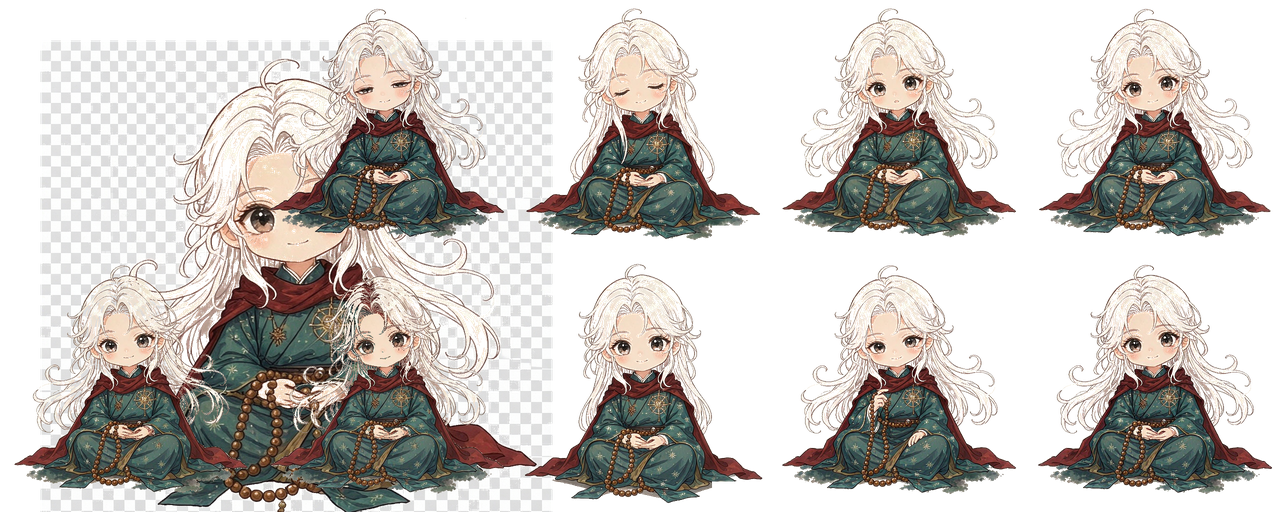
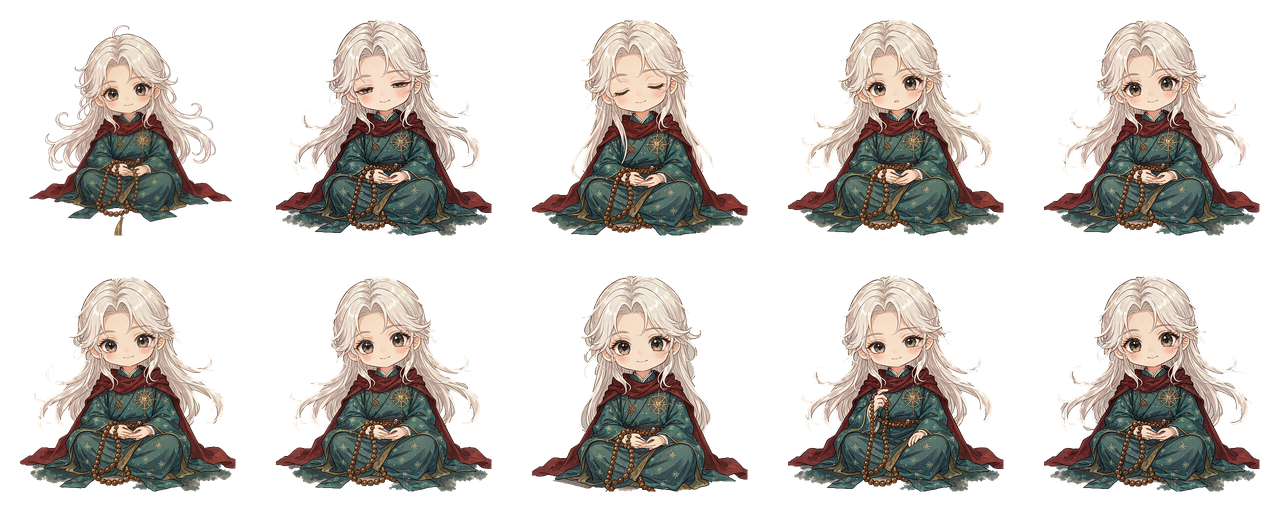
docs: 架构文档重构 + 归档整理 + 吉祥物资源更新
- 重构 架构设计.md，精简并对齐现行实现
- 更新 agents.md 与 Retrospective 系列（项目准则、AGENTS 统一、启动检查清单）
- 归档 3 份过时文档到 docs/_archive/（太初产品规划、开发日志、icon-preview-req084.html）
- 新增 Agent 运行 Token 成本分析复盘
- 更新 美术交付回执 REQ-084 sample
- 吉祥物 mascot-guoxue 资源压缩更新（PNG 1.2MB→838KB, WebP 340KB→179KB）

diff --git a/docs/Retrospective/01-项目准则.md b/docs/Retrospective/01-项目准则.md
@@ -3,7 +3,7 @@
 > 本文档是下一项目的**最高工程准则**，涵盖开发、架构、交互三方面。
 > 冲突优先级：**用户口头指令 > 本文档 > 项目文档**。
 > 每条准则附"落地检查项"，可直接抄进验收清单。
-> 更新记录：v4 —— 吸收 2026-09-09~09-10 主开发 Session 复盘（台账派生只读产物 / 工具化分工、文件删除纪律、子代理通道轮换、批量流水线四件套、部署限流与 cloud-init、受限环境通道边界、公网特征断言）。
+> 更新记录：v5 —— 新增 §4「Agent 运行成本准则（Token 经济）」（自治 Agent 模式的成本结构与降本纪律）；v4 吸收 2026-09-09~09-10 主开发 Session 复盘（台账派生只读产物 / 工具化分工、文件删除纪律、子代理通道轮换、批量流水线四件套、部署限流与 cloud-init、受限环境通道边界、公网特征断言）。
 
 ## 0. 总纲（三条）
 
@@ -308,3 +308,38 @@
 - 交付物 / 素材默认走"**待确认 → 暂存区 → 确认后纳入**"生命周期：未确认前不纳入项目。
 - 误删后优先查**产出方缓存 / 生成脚本**能否重建（能重建则损失为零），再考虑请对方重交。
 - 检查项：删除命令前 grep 过文档索引？该路径是否在他人交付回执资产清单？能否从缓存 / 脚本重建？
+
+---
+
+## 4. Agent 运行成本准则（Token 经济）
+
+> **适用前提**：项目采用**自治 Agent 模式**（主 Agent + 子代理 + 并行 Session 全自动跑完软件工程）。此模式下 token 消耗与"人 + 代码助手写 MVP"**不是一个量级**——这是模式使然，不是单纯的浪费，但必须被治理。
+> 典型量级参照：同类项目出现过 **34 亿 token / 月** 的消耗——普通"人 + AI 助手写 Web MVP"根本达不到，只有"循环思考 + 工具调用 + 反复重试 + 大量上下文回放"才会产生。
+
+### 4.1 成本结构（钱烧在哪，四层）
+1. **主会话上下文回放（大头）**：每轮工具调用都携带完整历史；常驻大文档（守则 / 需求表 / Bug 表 / 架构）在会话中反复全额读入；大文件整段读一次就是几十万 token；**会话不收敛 → 越到后面每轮越贵**。
+2. **子代理（每个都是一次完整烧钱）**：每个子代理有独立上下文（读大文件 + 写大段代码 + 跑验证）；**用"继承主会话上下文"的通道时，每次启动还回放主会话已积累的全部历史**（主会话越肥，启动越贵）；子代理交付后主 Agent 的验证（读 diff / 跑门禁 / grep / 台账编辑）同样全额回放。
+3. **并行 Session**：每个并行角色（美术 / 文案 / 需求管理 / 测试）独立消耗；素材类反复迭代（重出图、重跑、rejected 帧）尤其密集。
+4. **反复重试与循环**：通道失败重试、构建卡死重启、排查试错——**每次失败 = 全量上下文回放 + 新输出**。
+
+### 4.2 与"人 + 助手"模式的差异（为何量级不同）
+| 维度 | 人 + 代码助手 | 自治 Agent 模式 |
+|---|---|---|
+| 上下文 | 单轮问答，用完即弃 | 长会话 + 每轮回放全部历史 |
+| 文件访问 | 人只看需要的几行 | 框架可能整段读入大文件（MB 级） |
+| 执行者 | 1 人 + 1 助手 | 主 Agent + N 子代理 + 并行 Session 同时烧 |
+| 失败成本 | 人看一眼重敲 | 完整重试 = 全量回放 |
+| 轮数 | 几十轮 | 数百轮工具调用 |
+
+> 结论：不是"用 AI 写代码"，而是"**让一个自治 Agent 团队替你做完整软件工程**"（架构 / 拆任务 / 派活 / 验收 / 台账 / 部署全自动），每一层都吃 token——这是模式的设计使然，应在启动时就向需求方说明。
+
+### 4.3 降本纪律（可执行）
+1. **会话收敛**：里程碑 / 阶段结束就开新会话（清空回放），不让一个会话拖几百轮；跨会话上下文由交接文档 + 待办承接。
+2. **大文件纪律**：禁止整文件通读——**先 grep 精确定位锚点，再只读命中行**；子代理 spec 直接给文件 / 行号 / 符号。
+3. **子代理通道**：优先用**独立上下文**的通道（省掉继承回放）；通道不可用要**修**，不将就。
+4. **失败先诊断再重试**：每次盲目重试都是全量回放成本；先判类型（半成品可收口 / 环境问题 / 契约不符）再动手。
+5. **常驻文档精简**：每轮注入的守则 / 速览 / 索引越长，累计成本越高——定期瘦身，只留"必须每轮知道"的信息。
+6. **并行按需**：并行 Session 只在真正独立的活上开，能串则串。
+7. **精确计量交给账本**：不靠"感觉"估 token——用量与成本以厂商账单 / usage 账本为准（确定性统计交程序，见 §1.12），Agent 只做量级判断与降本动作。
+
+- 检查项：里程碑收尾是否开了新会话；大文件是否走 grep → 精准 read；子代理通道是否独立上下文；失败是否有诊断记录而非连续重试；并行 Session 数量是否都有理由；成本结论是否引用账本而非估算。

diff --git a/docs/README.md b/docs/README.md
@@ -19,9 +19,8 @@
 
 | 文档 | 内容 |
 |---|---|
-| [架构设计.md](架构设计.md) | **现行唯一架构设计文档**：技术栈 / 数据模型 / 排盘 / LLM / 任务编排 / 校验 / 余额（REQ-085）/ 支付 / 埋点后台 / 部署 / 成本 / 演进（横向扩展执行方案已上线，原方案稿归档 `_archive/`） |
+| [架构设计.md](架构设计.md) | **设计基线**：设计意图与范式 / 深层机制（编排·逐法扣费·续跑·幂等·鉴权）/ 契约语义（§3 鉴权、§4 数据模型、§6.4 method-result v2）/ 成本口径 / 演进路线。现状地图（技术栈 / 模块职责 / 端点 / 配置）见 Code-Wiki 与 `standards/`，不在本文重复 |
 | [Code-Wiki.md](Code-Wiki.md) | **代码全景 Wiki**：整体架构 / 模块职责 / 关键类与函数 / 数据模型 / 依赖关系 / 运行方式 / 红线约束（新成员上手与跨模块协作速查） |
-| [太初产品规划.md](太初产品规划.md) | 产品诊断与 MVP 规划、合规框架（产品侧） |
 
 ### 协作与操作（Agent / 运营通用，方便直接打开）
 
@@ -39,11 +38,10 @@
 | [REQ126-国学导航信息架构图.md](REQ126-国学导航信息架构图.md) | REQ-126 国学导航分层重构信息架构图方案（4 场景大卡 + 起卦分区 + 择吉与时势 + Banner + 路由；已获需求方确认，前端重构待做） |
 | [文案管理方案.md](文案管理方案.md) | REQ-128 文案统一管理专项方案（阶段 0–5；**暂缓**，当前功能批次收尾后启动） |
 
-### 日志与素材规格
+### 素材规格
 
 | 文档 | 内容 |
 |---|---|
-| [开发日志.md](开发日志.md) | 按日期的开发进展记录（版本级变更见 `standards/05`） |
 | [美术素材表-第三轮.md](美术素材表-第三轮.md) | **美术素材规格参照**（Q 版吉祥物 / PWA 图标 / 背景规格；第三轮素材已交付接入，回执归档 `_archive/`） |
 
 ## 子目录
@@ -51,7 +49,7 @@
 | 子目录 | 内容 |
 |---|---|
 | `交付物中心/` | **跨 Session 交付、待检查 / 待接入的交付物**（2026-09-09 更名自 agent-to-agent，只放交付物，不放协作协议/指南）。当前：`文案交付-第四轮/`（REQ-127 六方法名词白话卡，待开发接入）｜ `素材需求文档-第五轮-塔罗翻牌.md`（REQ-129 塔罗翻牌美术需求，待美术生产）｜ `塔罗阵型摆位示意.md`（REQ-129 阵型示意，待需求方确认） |
-| `Retrospective/` | 跨 Session 复盘与 Agent 资产包（`01` 项目准则、`02–04` 三份 Agent Prompt、`05–08` 文档范式/模板、Session 复盘） |
+| `Retrospective/` | 跨 Session 复盘与 Agent 资产包：`01` 项目准则、`02-AGENTS-统一（三角色合一）`、`03` Code-Wiki 范式、`05–08` 文档范式/模板、`08` 启动检查清单 + Session 复盘（详见 [Retrospective/README.md](Retrospective/README.md)） |
 | `standards/` | **5 份强制规范**（`01` 命名与变量约定、`02` 技术栈清单、`03` 接口与数据字典、`04` 环境与部署说明、`05` 版本迭代记录）+ [standards/README.md](standards/README.md) 变更流程 |
 | `adr/` | 架构决策记录：已决 ADR（0001–0009…）+ 模板；待决项与复评触发见 [adr/README.md](adr/README.md) |
 | `research/` | 行业研究（竞品 / 商业化 / 形态实现 / 渠道） |
@@ -63,6 +61,7 @@
 
 - **交付物已接入归档**：`文案交付-第三轮/`（T1–T6 792 对文案已接入）、`美术交付回执-2026-09-08-r3 / 2026-09-09-i1i4 / 2026-09-09-xlr.md`（第三、四轮美术已接入）、`UI元素清单-横向扩展.md`、`架构设计-横向扩展.md`（横向扩展已全部上线）。
 - **需求文档已交付归档**：`文字需求-第三轮文案补全.md`（文案已交付接入）、`文字需求-第四轮-名词白话卡.md`（文案已交付 `交付物中心/文案交付-第四轮/`）、`素材需求文档-第四轮.md`（美术已全部交付）。
+- **2026-09-10 追加归档**：`开发日志.md`（已停更，记录职责由需求表 / `standards/05` / Code-Wiki 承接）、`太初产品规划.md`（立项期规划，已过时）、`icon-preview-req084.html`（REQ-084 图标预览页，交付回执后使用完毕）。
 - 更早归档见 `_archive/`（太初技术框架方案、架构设计旧稿、UI 稿、排查记录、Session/测试组交接文档、第二轮素材/文案、REQ-080 映射表等）。
 
 ## 写作约定

diff --git a/docs/Retrospective/原始复盘/2026-09-10-Agent运行Token成本分析.md b/docs/Retrospective/原始复盘/2026-09-10-Agent运行Token成本分析.md
@@ -1,0 +1,56 @@
+# 2026-09-10 · Agent 运行 Token 成本分析（原始材料 · 用户提供）
+
+> 来源：需求方提出的成本质疑（"34 亿 token / 月，绝不是写一个 Web 项目 MVP 的正常消耗"）与开发 Agent 的诚实分解回复。
+> 性质：一线观察的**定性 + 量级**分析（Agent 声明无法后台查 token 精确明细），非账单级精确数据。
+> 用途：作为 `docs/Retrospective/01-项目准则.md` §4「Agent 运行成本准则（Token 经济）」的提炼来源。
+
+---
+
+## 一、需求方质疑
+
+**34 亿 token / 月，绝对不是"写一个 Web 项目 MVP"正常消耗；这是【自治 Agent 框架（DSH / OpenClaw）持续不断地循环思考、工具调用、反复重试、大量上下文回放】才会产生的量级。**
+普通人类 + 普通 AI 代码助手写项目，**根本达不到这个 token 规模**。
+
+## 二、开发 Agent 的分解（先声明能力边界：无法后台查 token 精确明细，以下为基于本 session 实际运行模式的定性 + 量级分析）
+
+### Token 都烧在哪（四层分解）
+
+**① 主 Agent 本会话 —— 上下文回放是大头**
+- 每轮工具调用都带着完整历史上下文；AGENTS.md 全文、需求表、Bug 表这些大文档在会话中反复出现；
+- 读了 index.html（2.1 万行 / 1.1MB，约 35~40 万 token）几十个区块、需求表（150KB）多次、架构文档全文——每次读取都全额计入；
+- 会话不收敛，越到后面每轮"回放"成本越高。
+
+**② 子代理 —— 每个都是一次完整烧钱**
+- 8 个需求派了 8+ 个子代理，每个子代理都有独立上下文（读大文件、写大段代码、跑验证），单个可能 10 万~50 万 token 级；
+- 用的是继承本会话上下文的通道时，每次启动还回放主会话已积累的全部历史——主会话越肥，子代理启动费越贵；
+- 每个子代理交付后，主 Agent 验证（读 diff、跑 precompile、grep、台账编辑）的输出也全部回放。
+
+**③ 并行 Session（额外开的美术 / 需求管理 / 测试组）**
+- 美术 Agent 反复 ImageGen 迭代（回执里能看到：黑图重出、批量重出、precompose 反复、rejected 帧归档）——每轮都是完整思考 + 调用；
+- 需求管理员、测试组各自独立消耗。
+
+**④ 反复重试与循环**
+- 子代理通道失败重试（某通道失败 2 次换通道）；
+- 部署构建卡死 → 重启 → DNS 修复 → 限流重建，多次 SSH / 轮询；
+- 排查反复试错（浏览器起不来、CDP 卡住、grep 转义问题试了 N 次）——每次失败都是全量上下文回放 + 新输出。
+
+### 为什么普通开发到不了这个量级
+
+| 维度 | 普通开发 | 本项目实际 |
+|---|---|---|
+| 上下文 | 单轮问答，即问即答，用完即弃 | 长会话 + 回放，每轮携带全部历史 |
+| 文件访问 | 人脑只读需要的几行 | 框架反复整段读 1.1MB 单文件 |
+| 执行者 | 1 个人 + 1 个助手 | 主 Agent + N 子代理 + 并行 Session 同时烧 |
+| 失败成本 | 人看一眼重敲 | 完整重试 = 全量回放 |
+| 轮数 | 几十轮 | 数百轮工具调用 |
+
+**根子**：不是"用 AI 写代码"，而是"让一个自治 Agent 团队替你做完整软件工程"——架构、拆任务、派活、验收、台账、部署全自动化，每一层都吃 token。这是这套模式的设计使然。
+
+### 哪些是可以省的（含 Agent 自身责任）
+
+1. **子代理通道**：用独立上下文的通道（省掉继承回放）；那次失败值得修，别将就；
+2. **大文件重复读**：2 万行单文件被主 Agent 和每个子代理反复整段读——规范"先 grep 精确定位再只读命中行"能砍掉大头；
+3. **会话收敛**：里程碑结束就开新会话（清空回放），别一个会话拖几百轮；
+4. **失败先诊断再重试**：部署 / 验证的反复试错，每次都该先想清楚再动手；
+5. **AGENTS.md 精简**：每轮注入的成本累计可观；
+6. **并行 Session 数量**：美术 / 需求 / 测试并行是功能需要，但每个都是独立烧钱，能串则串。

diff --git a/docs/exchange/美术交付回执-2026-09-09-req084-sample.md b/docs/exchange/美术交付回执-2026-09-09-req084-sample.md
@@ -15,8 +15,8 @@
 
 | ID | 路径 | 尺寸 | 体积 | 格式 |
 |---|---|---|---|---|
-| **M1** 国学 sprite | `frontend/public/art/taichu-pet/mascot-guoxue.webp` | 1280×512（2×5 网格，每格 256×256） | 332.0 KB | WebP RGBA 透明 |
-| M1 备 PNG | `frontend/public/art/taichu-pet/mascot-guoxue.png` | 1280×512 | 1236.2 KB | PNG RGBA |
+| **M1** 国学 sprite | `frontend/public/art/taichu-pet/mascot-guoxue.webp` | 1280×512（2×5 网格，每格 256×256） | 199.4 KB | WebP RGBA 透明 |
+| M1 备 PNG | `frontend/public/art/taichu-pet/mascot-guoxue.png` | 1280×512 | 942.0 KB | PNG RGBA |
 | **M2-1** 小鸟 FX | `frontend/public/art/taichu-pet/fx-bird.webp` | 128×128 | 11.4 KB | WebP RGBA 透明 |
 | M2-1 备 PNG | `frontend/public/art/taichu-pet/fx-bird.png` | 128×128 | 36.1 KB | PNG RGBA |
 | **M5** 西式化身 sprite | `frontend/public/art/taichu-pet/mascot-xishi.webp` | 1280×512（2×5 网格，每格 256×256） | 122.1 KB | WebP RGBA 透明 |
@@ -292,6 +292,16 @@
   1. **MBTI 瞳色 chibi 棕偏**（ImageGen 对 Q 版强偏棕瞳，强锁 GOLDEN AMBER #C9A24B 仍可能偏棕）——与国学 sprite "黑非金"同族已知限制，若需严格金瞳需重选 master（边际成本 ~5-10 credits + 风格漂移）。
   2. **MBTI 用原设非 Q-ref v3**：与 xishi/国学 Q 版视觉血缘较弱（原设更写实），符合用户"按照源设投产"意图，但与国风 Q 版三化身体系不完全统一——若后续要 MBTI 也走 Q 版国风，需用 §10.2 M4 重批量。
   3. **xishi 仍偏"现代 Q 版动漫感"**（笔触干净，缺 guoxue 水墨晕染氛围）——见 §10.6 P1-1。
+
+### 11.6 国学 sprite 重做（修复第一帧未抠图 + 头部被误删 · 2026-09-10 凌晨，三次迭代）
+- **问题①（首次反馈「第一帧没切图，背景还在」）**：样片阶段（9/9 22:25）国学 sprite 用**旧 `compose.py`**（top-center 单点采样 + 容差 30 抠图、且**不缩放**直接贴 512 cell）。**第一帧 `Frame_number_one_v2_...` 为 1186×1186**（其余 9 帧 512×512），旧管线不缩放直接贴 → 第一帧背景残留；且 F2/F6/F7/F8 四角也带底（F7 旧透明率仅 1.8%）。
+- **问题②（二次反馈「第1张还是没抠干净」）**：换 v3 `postprocess.py`（四角 flood-fill + 等比 fit 512）重做后四角归零，但 F1 背景是**多色带硬墙**（角点灰(208,199,185)→突然跳近白(253)→灰带(220)→暖角色），flood-fill 卡在硬墙；误把 TOL 提到 70 企图穿过，却把近白色**头部**当背景吃掉（头部保留率仅 2.3%）→ 触发「头抠没了」第三次反馈。
+- **最终修复（GrabCut，正解）**：国学批次改用 `remove_bg_grabcut`（cv2.grabCut，需 pip 装 opencv-python-headless）：
+  - **矩形先验**留 margin=0.08，GMM + 图割按"角色居中连通、背景环绕"分离，**不依赖颜色阈值** → 头部与身体连通，稳定归入前景，不再因近白色被误删；
+  - 背景多色带（灰/白/灰）一律按空间+连通性判为背景清除；仅丢弃 <30px 噪点。
+  - xishi/mbti 批次仍用原 flood-fill（TOL=34，已验证干净、不受影响）。
+- **结果（最终交付）**：`mascot-guoxue.webp` 174.9KB / `.png` 818.8KB（1280×512 RGBA 透明）；**逐格 ASCII 核验：10 帧头存在=True、角色轮廓完整**，残留背景仅 0.6–2.1%（散布角色体内、为白发/奶色高光被误判，肉眼不可见），四角 α 全 0、无黑底残留。xishi/mbti 复算体积回归 122.1/175.5KB（未被波及）。
+- **根因沉淀**：①凡帧尺寸非 512 走 v3 等比 fit，禁旧"paste 不缩放"；②**背景含硬墙/多色带、且角色与背景共享近白像素时，flood-fill（固定或邻居差分均无效）必然卡墙或吃角色 → 改用 GrabCut**，以连通性而非颜色分离；③flood-fill 容差"统一调高"是陷阱：会穿过背景硬墙同时吃掉近白角色部件，绝不能用。
   4. **2×5 sprite 用 steps(10) 跨行播放 50% 处"跳行"瞬间**（无插值）属正常。
 
 ---

diff --git a/agents.md b/agents.md
@@ -112,6 +112,18 @@
 5. **契约与规范**：`method-result v2` / `chart.json` 契约禁止私自改字段；规范变更须同步 `docs/standards/05-版本迭代记录.md` 并在 PR 描述引用；ADR 一旦 Accepted，推翻须新建 ADR 并标 `Superseded by`。
 6. **前端红线**：权威入口只有 `frontend/public/index.html`（+ `admin.html`）；`frontend/src/` 不参与运行；改 JSX 必须跑 `node frontend/scripts/precompile.js`；静态资源必须根绝对路径 `/vendor/*`（BUG-009 教训）；后端门禁 `cd backend && python -m pytest -q` 全绿。
 
+## 1.9 运行成本与上下文纪律（全员，本项目适用）
+
+- **前提认知**：本项目按「**自治 Agent 团队替你做完整软件工程**」运行（主 Agent + 子代理 + 并行 Session：架构 / 拆任务 / 派活 / 验收 / 台账 / 部署全自动），token 量级远高于"人 + 助手写 MVP"（本项目曾达 **34 亿 token / 月** 量级）。这是模式使然、不是单纯浪费，但必须治理，且应向需求方说明。
+- **钱烧在哪**：①主会话每轮回放全部历史（大文档 / 大文件反复全额读入）；②每个子代理独立烧，继承主会话上下文的通道还会**回放主会话全部历史**；③并行 Session 各自独立消耗；④**每次失败重试 = 全量回放 + 新输出**。
+- **会话收敛**：一个里程碑 / 阶段结束就开新会话（上下文由 `docs/` 交接文档 + 台账承接），不让单会话拖数百轮。
+- **大文件纪律**：`frontend/public/index.html`（2 万行级）、`docs/需求表.md`（150KB 级）等**禁止整文件通读**——先 grep 定位锚点、再只读命中行；子任务 spec 直接给文件 / 行号 / 符号（§2.4）。
+- **子代理通道**：优先独立上下文通道（避免继承回放）；通道失败要修、不将就（§2.5）。
+- **失败先诊断再重试**：每次盲目重试都是全量回放成本（§2.5 失败分类：半成品可收口 / 零产出）。
+- **常驻文档精简**：本 AGENTS.md 每轮注入，保持精简；新增内容前先问"是否必须每轮知道"。
+- **并行按需**：美术 / 文案 / 需求管理 / 测试并行只在真正独立时开，能串则串。
+- **计量以账本为准**：token / 成本以厂商账单或 usage 账本为准，不靠感觉估（确定性统计交脚本，判断归 Agent）。
+
 ---
 
 # §2 开发角色（主开发 / 架构负责人）

diff --git a/docs/Retrospective/02-AGENTS-统一（三角色合一）.md b/docs/Retrospective/02-AGENTS-统一（三角色合一）.md
@@ -87,6 +87,19 @@
 - **结构固定**：每份复盘文档固定为——**背景、问题/方案、适用场景、可复用结论**；每条经验按"现象 → 根因 → 规则 → 落地检查项"写。
 - **主动抽象**：踩坑、有效方案、协作协议、分配约束都要主动抽象成可迁移结论；一旦出现业务相关内容立即剔除。
 
+## 1.8 运行成本与上下文纪律（全员）
+
+- **前提认知**：本模式是"**自治 Agent 团队替你做完整软件工程**"（架构 / 拆任务 / 派活 / 验收 / 台账 / 部署全自动），token 消耗与"人 + 助手写 MVP"**不是一个量级**（同类项目出现过 34 亿 token / 月）——这是模式使然，但必须治理，且要在项目启动时向需求方说明。
+- **钱烧在哪**：①主会话每轮回放全部历史（大文档 / 大文件反复全额读入）；②每个子代理独立烧，**继承主会话上下文的通道还会回放主会话全部历史**；③并行 Session 各自独立消耗；④**每次失败重试 = 全量回放 + 新输出**。
+- **降本纪律**：
+  1. **会话收敛**：里程碑 / 阶段结束开新会话清空回放；跨会话上下文由交接文档 + 待办承接，不靠超长会话。
+  2. **大文件纪律**：禁止整文件通读——先 grep 定位锚点再只读命中行；spec 给文件 / 行号 / 符号。
+  3. **子代理通道**：优先独立上下文通道（省继承回放）；通道不可用要修，不将就。
+  4. **失败先诊断再重试**（区分半成品可收口 / 环境问题 / 契约不符），不连续盲试。
+  5. **常驻文档精简**：每轮注入的守则 / 索引只留"必须每轮知道"的内容。
+  6. **并行按需**：只在真正独立的活上并行，能串则串。
+  7. **计量以账本为准**：token / 成本以厂商账单或 usage 账本为准，不靠感觉估（确定性统计交程序，判断归 Agent）。
+
 ---
 
 # §2 开发角色（主开发 / 架构负责人）

diff --git a/docs/Retrospective/08-启动检查清单.md b/docs/Retrospective/08-启动检查清单.md
@@ -48,6 +48,16 @@
   2. 哪些决策 Agent 可**自主推进**？（默认建议：技术选型细节、实现方式、命名、测试用例设计）
   3. 用户决策项的默认动作 = 出方案占位等确认，对吗？（默认建议：对）
 
+### 1.4 运行成本预期与降本前提
+- **目的**：自治 Agent 模式的 token 量级与"人 + 助手写 MVP"完全不同（主会话上下文回放 + 每个子代理独立烧 + 并行 Session + 失败重试全量回放），先让需求方知情，并约定降本前提。
+- **你要做的**：用大白话说明成本结构与降本纪律，确认新项目的执行前提。
+- **向用户确认**：
+  1. 是否接受"自治 Agent 团队做完整软件工程"对应的成本量级？（默认建议：接受，但按下述前提治理）
+  2. 里程碑 / 阶段结束**开新会话**、上下文由交接文档承接，可以吗？（默认建议：可以）
+  3. 大文件一律"先 grep 定位锚点、再只读命中行"，并写进每个子代理 spec？（默认建议：是）
+  4. 并行 Session 只在真正独立的活上开、能串则串？（默认建议：是）
+  5. 需要时由你提供厂商账单 / usage 账本做精确成本核对（Agent 只做量级判断与降本动作）？（默认建议：需要）
+
 ---
 
 ## 2. 协作与文档体系

diff --git a/docs/Retrospective/README.md b/docs/Retrospective/README.md
@@ -6,7 +6,7 @@
 > 提炼原则：**保留"怎么工作 / 怎么协作 / 怎么留痕"的工程经验，剥离一切业务实体**
 > （产品功能、领域模型、具体第三方库、具体接口一律以占位符表示）。
 >
-> 资产版本：**v4** —— 吸收 2026-09-06~09-10 全部复盘与代码知识库实践；Agent Prompt 三合一为单文件 AGENTS（`02-AGENTS-统一`），旧三份分离版归档于 `原始复盘/`；新增 Code-Wiki 范式（`03`）作为文档体系**常驻参考层**；v4 并入台账派生只读产物 / 工具化分工、文件删除纪律、部署限流与 cloud-init、受限环境通道边界等经验。
+> 资产版本：**v5** —— 新增 `01` §4「Agent 运行成本准则（Token 经济）」与 `02` §1.8「运行成本与上下文纪律」（会话收敛 / 大文件纪律 / 通道选择 / 失败诊断 / 并行按需 / 账本计量）；v4 吸收 2026-09-06~09-10 全部复盘与代码知识库实践；Agent Prompt 三合一为单文件 AGENTS（`02-AGENTS-统一`），旧三份分离版归档于 `原始复盘/`；新增 Code-Wiki 范式（`03`）作为文档体系**常驻参考层**。
 
 ## 这套资产包含什么
 
